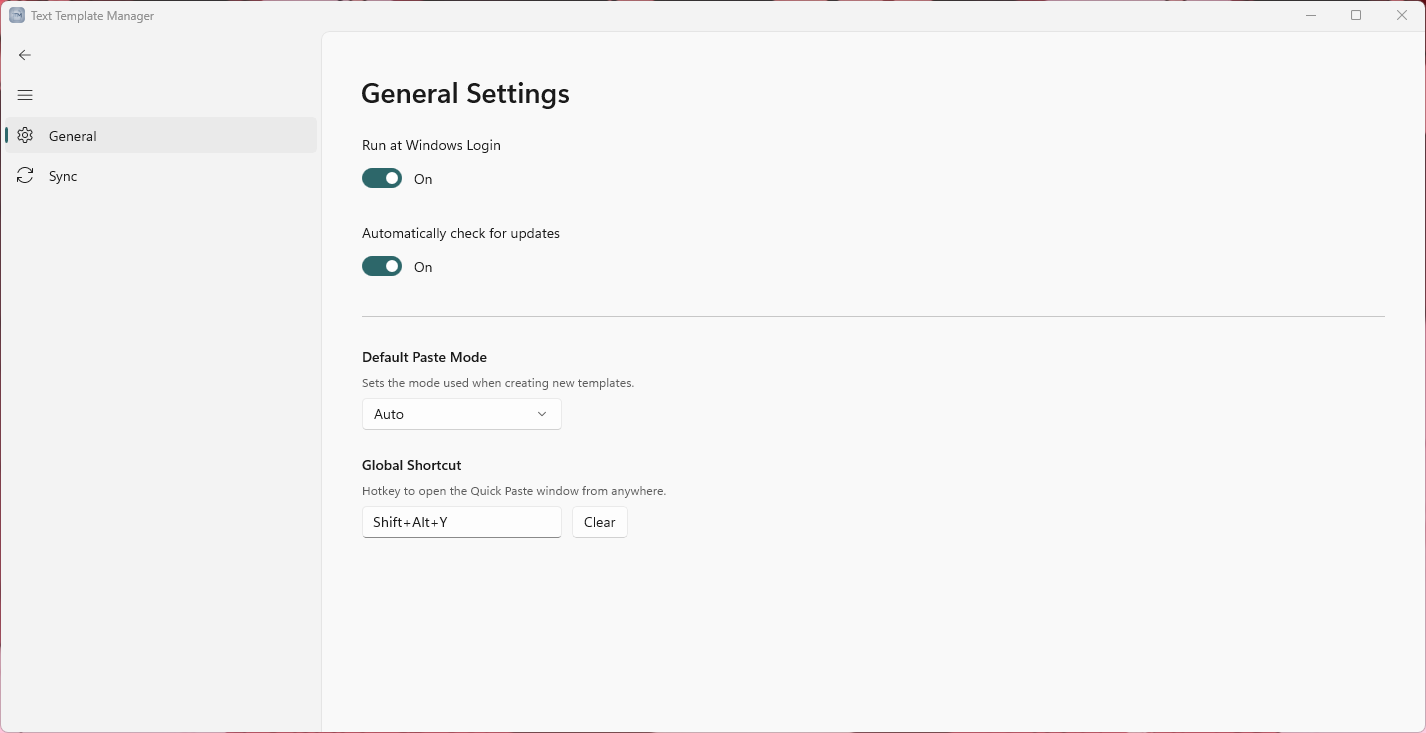
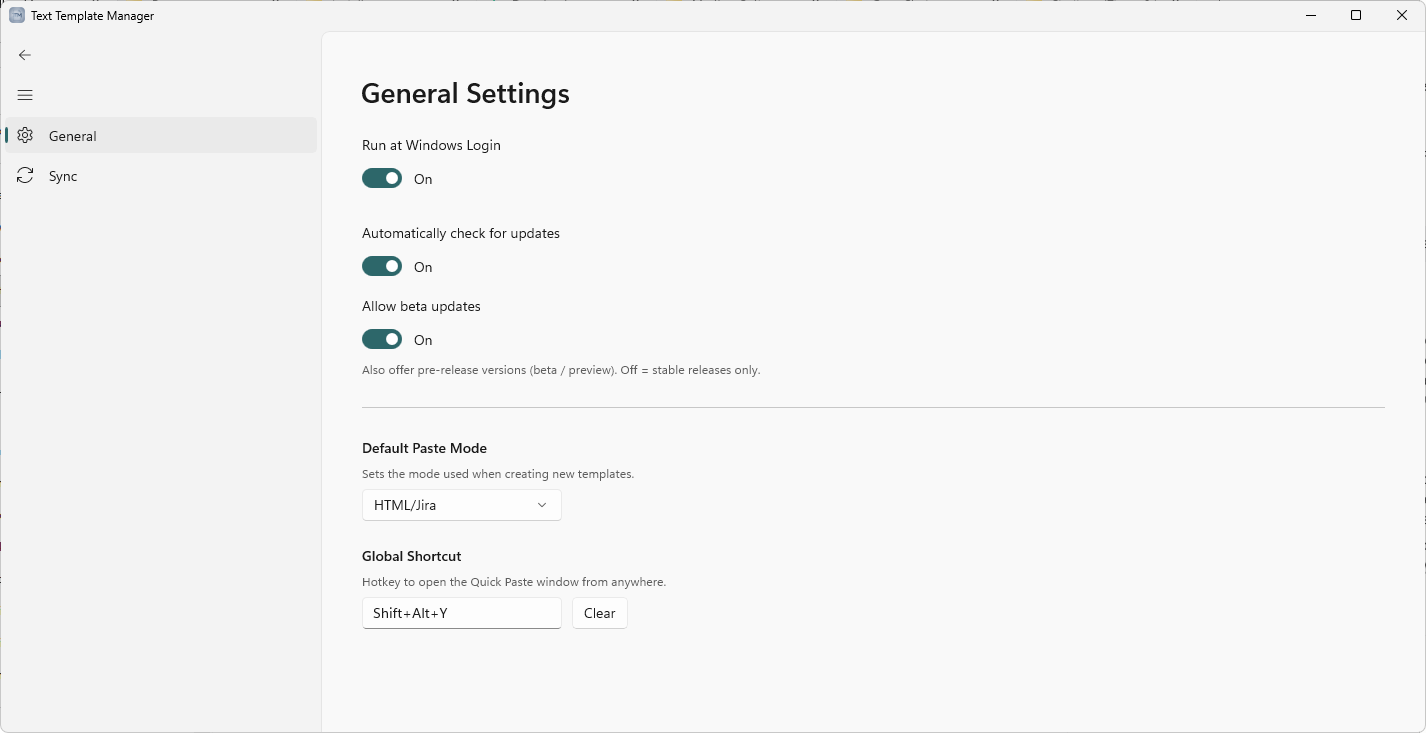
update handbook

diff --git a/docs/Handbook.md b/docs/Handbook.md
@@ -49,9 +49,9 @@ new templates and folders are created at the root.
 
 ### The template editor
 
-Selecting a template opens it in the rich-text editor, which supports bold, italic, underline, 
-strikethrough, text and highlight colors, headings, bulleted and numbered lists, tables, and 
-callout panels. Changes are saved automatically a short time after you stop typing, so there is 
+Selecting a template opens it in the editor, which supports bold, italic, underline, 
+strikethrough, text and highlight colors, headings, bulleted and numbered lists, links, tables, 
+and callout panels. Changes are saved automatically a short time after you stop typing, so there is 
 no separate save step — a brief **Saved** indicator appears in the top-right corner each time your 
 data is written.
 
@@ -285,7 +285,9 @@ running a setup executable still upgrades the application normally.
 | Main window (Tree) | **Ctrl + C** | Copy the selected template in its default paste mode. |
 | Main window (Tree) | **Esc** | Clear the current selection. |
 | Quick Paste | *key* | Paste by single-key shortcut (search box empty). |
-| Quick Paste | **Alt** + *keys* | Paste by multi-key shortcut; release **Alt** to insert. |
+| Quick Paste | **↑ / ↓** | Move the highlight through the current shortcut list. |
+| Quick Paste | **Enter** | Paste the highlighted shortcut. |
+| Quick Paste | **Alt** + *keys* | Paste by multi-key shortcut; release **Alt** to insert the highlighted match. |
 | Quick Paste | **Alt** + *keys* + **_**| Paste by multi-key shortcut as Plain Text; release **Alt** to insert. |
 | Quick Paste | **Alt** + **Backspace** | Correct the current multi-key entry. |
 | Quick Paste | **Esc** | Close the Quick Paste window. |